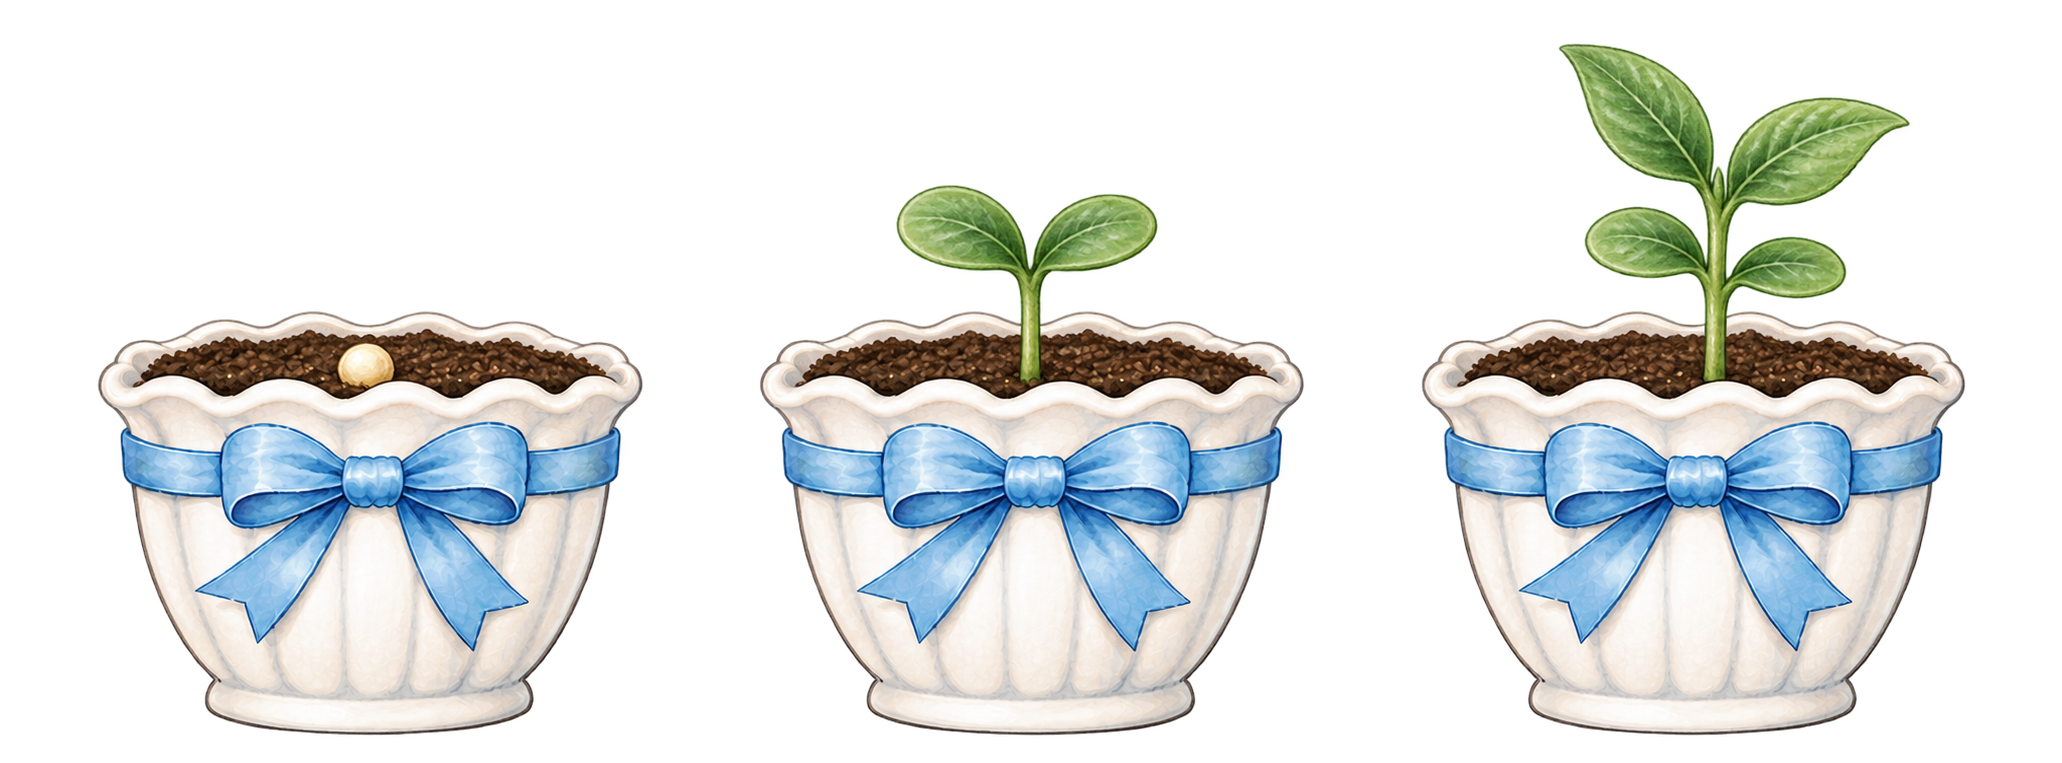
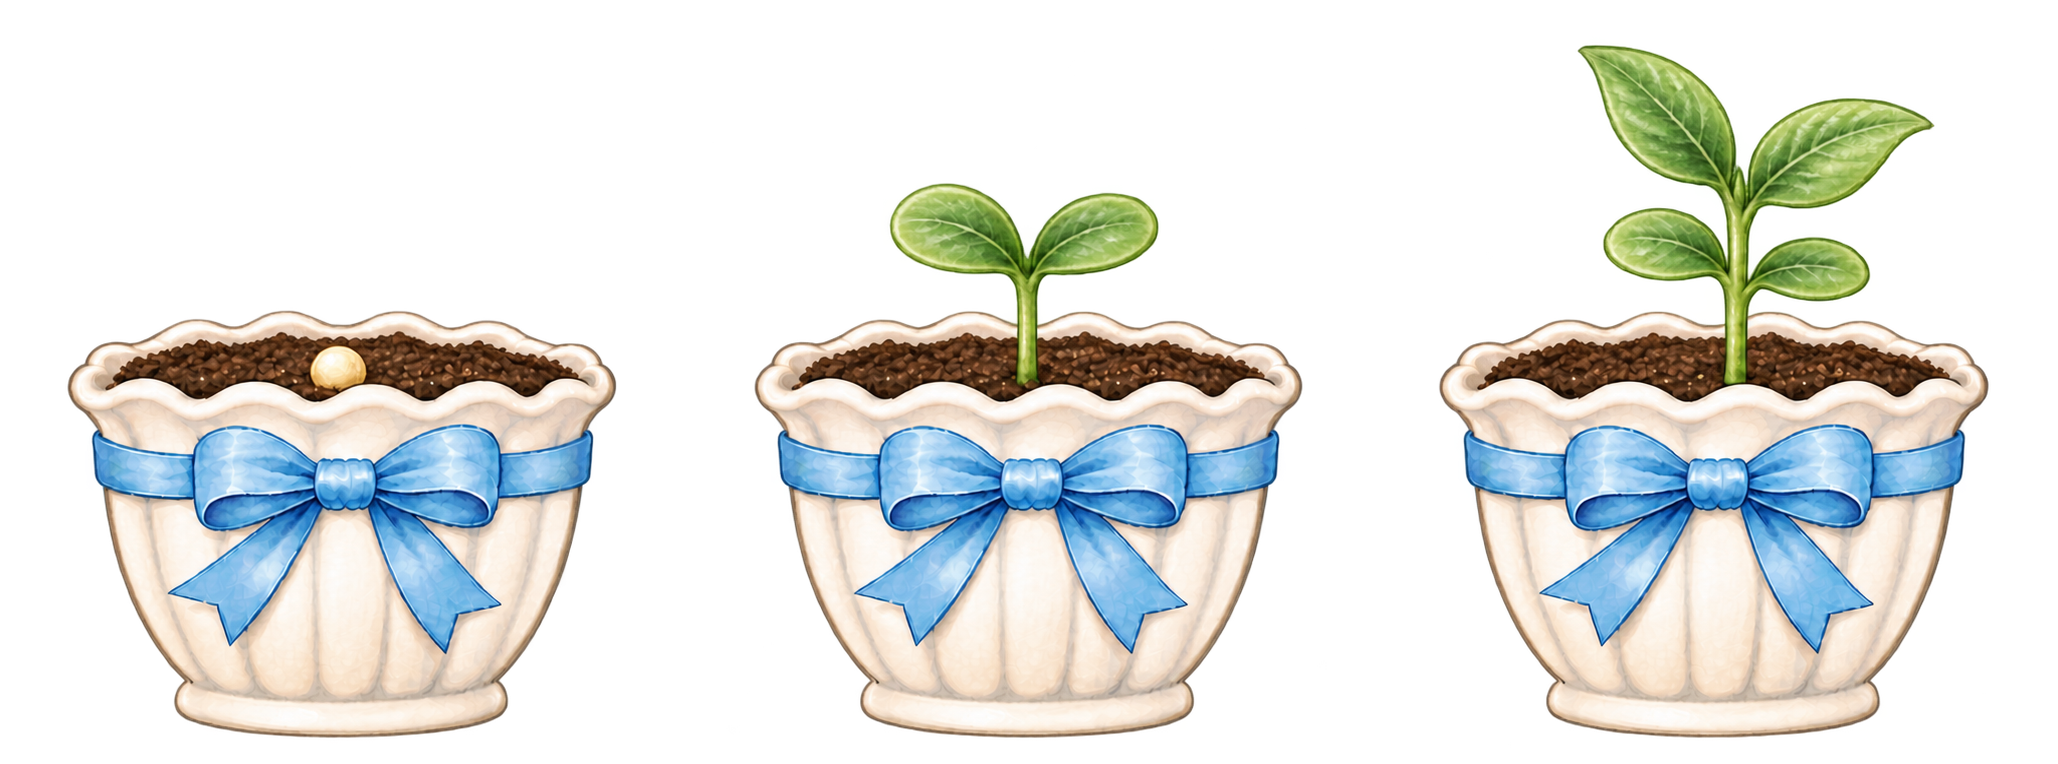
Match common growth stage pot outlines and centered sprite alignment

diff --git a/index.html b/index.html
@@ -1,6 +1,6 @@
 <!doctype html><html lang="ja"><head><meta charset="utf-8"><meta name="viewport" content="width=device-width,initial-scale=1,viewport-fit=cover"><title>ちいさな花のお庭</title><style>
 *{box-sizing:border-box}body{margin:0;font-family:-apple-system,BlinkMacSystemFont,"Hiragino Sans",sans-serif;background:linear-gradient(#dff5ff,#fff6fb);color:#535b70;min-height:100vh;padding:16px}.game{max-width:460px;margin:auto;background:#ffffffdc;border-radius:28px;padding:20px;box-shadow:0 12px 38px #7892aa25;text-align:center}h1{font-size:23px;margin:2px}.sub,.status{font-size:12px;color:#8990a0}.stage{font-size:12px;background:#f4f1fb;display:inline-block;padding:6px 12px;border-radius:16px;margin:8px}.garden{height:300px;border-radius:24px;background:linear-gradient(#cfedff 0 72%,#dbc8a8 72%);position:relative;display:grid;place-items:center;overflow:hidden}.plant{width:100%;height:245px;transform:translateY(25px);cursor:pointer;user-select:none;display:flex;align-items:flex-end;justify-content:center}.plant img{display:block;width:auto;height:auto;max-width:88%;max-height:225px;object-fit:contain;object-position:center bottom}.plant img.flower-stage{max-width:68%;max-height:205px}.plant img.marguerite-art,.plant img.gerbera-art,.plant img.sunflower-art,.plant img.rose-art,.plant img.cosmos-art,.plant img.babys-art,.plant img.violet-art,.plant img.lily-art,.plant img.tulip-art,.plant img.hydrangea-art{width:min(273px,80vw);height:auto;max-width:none;max-height:none;aspect-ratio:1}.plant.pop{animation:pop .35s}@keyframes pop{50%{transform:translateY(25px) scale(1.06)}}.bubble{background:#fff;border-radius:18px;padding:10px 13px;margin:2px 0 12px;max-width:100%;font-size:13px;line-height:1.6;font-weight:650;overflow-wrap:anywhere;box-shadow:0 5px 15px #60708018}.sky{position:absolute;top:17px;font-size:30px}.sun{right:20px}.cloud{left:20px}.meters{text-align:left;margin:14px 2px}.meter{display:grid;grid-template-columns:82px 1fr;align-items:center;gap:8px;margin:9px 0;font-size:13px;font-weight:650}.track{height:11px;background:#edf0f4;border-radius:10px;overflow:hidden}.fill{height:100%;border-radius:10px;background:linear-gradient(90deg,#b7ddf4,#d6c8f2);transition:width .4s}.actions{display:grid;grid-template-columns:repeat(2,1fr);gap:9px}button{border:0;border-radius:16px;padding:13px 7px;font-size:14px;font-weight:700;color:#596176;background:#e9f6ff}.result{background:#fff7fb;border-radius:18px;padding:13px;margin-top:12px;line-height:1.7}.hidden{display:none}.reset,.test{background:transparent;color:#a0a4af;font-size:11px;margin-top:7px}.sleep{opacity:.7}.questionNotice{margin-top:11px;width:100%;background:#fff3fb;color:#6c6075;border:2px solid #f3d8ec;box-shadow:0 5px 16px #8c6f8c18}.modal{position:fixed;inset:0;background:#52607855;display:grid;place-items:center;padding:22px;z-index:20}.modal.hidden{display:none}.qcard{width:min(420px,100%);background:#fff;border-radius:24px;padding:22px;box-shadow:0 16px 45px #4d587744;text-align:left}.qhead{font-size:12px;color:#9a8da3;margin-bottom:8px}.qtext{font-size:18px;font-weight:750;line-height:1.55;margin:5px 0 16px}.choices{display:grid;gap:9px}.choices button{background:#eef8ff;text-align:left;padding:13px 14px}.later{width:100%;background:transparent;color:#9a9eaa;font-size:12px;margin-top:9px}
-.common-plant{width:min(205px,60vw);aspect-ratio:2062/2289;flex:none;background-image:url("stage_common.png");background-size:300% 100%;background-repeat:no-repeat;background-position:left top}.common-plant.nemophila-stage{width:min(273px,80vw);aspect-ratio:1;background-image:url("nemophila_stages.png");background-size:200% 100%}.common-plant.lavender-stage{width:min(300px,80vw);aspect-ratio:1;background-image:url("lavender_stages.png");background-size:200% 100%}.common-plant.hidden,.plant img.hidden{display:none}
+.common-plant{width:min(198px,60vw);aspect-ratio:686/764;flex:none;background-image:url("stage_common.png");background-size:300% 100%;background-repeat:no-repeat;background-position:left top}.common-plant.nemophila-stage{width:min(273px,80vw);aspect-ratio:1;background-image:url("nemophila_stages.png");background-size:200% 100%}.common-plant.lavender-stage{width:min(300px,80vw);aspect-ratio:1;background-image:url("lavender_stages.png");background-size:200% 100%}.common-plant.hidden,.plant img.hidden{display:none}
 </style></head><body><main class="game"><h1>🌱 ちいさな花のお庭</h1><p class="sub">お世話のしかたで、咲く花が変わるよ</p><div id="stage" class="stage"></div><div id="bubble" class="bubble">どんな花になるのかな…？</div><section class="garden"><span class="sky cloud">☁</span><span class="sky sun">☀</span><div id="plant" class="plant"><div id="commonPlant" class="common-plant hidden" role="img" aria-label="育てている植物"></div><img id="plantImg" alt="育てている植物"></div></section><div class="meters"><div class="meter">🌱 成長<div class="track"><div id="growth" class="fill"></div></div></div><div class="meter">💧 うるおい<div class="track"><div id="moisture" class="fill"></div></div></div><div class="meter">☀ ひかり<div class="track"><div id="light" class="fill"></div></div></div><div class="meter">🌿 げんき<div class="track"><div id="health" class="fill"></div></div></div><div class="meter">🩷 なかよし<div class="track"><div id="friend" class="fill"></div></div></div></div><div id="actions" class="actions"><button data-a="water">💧 お水</button><button data-a="sun">☀ ひなた</button><button data-a="care">🌿 お手入れ</button><button data-a="talk">🩷 おはなし</button></div><button id="questionNotice" class="questionNotice hidden">💌 お花から質問があるみたい</button><div id="result" class="result hidden"></div><div id="status" class="status">一緒に過ごしているよ 🌱</div><button id="test" class="test">テスト：次の成長段階へ</button><button id="reset" class="reset">育成データをリセット</button></main><div id="qmodal" class="modal hidden"><div class="qcard"><div id="qhead" class="qhead"></div><div id="qtext" class="qtext"></div><div id="choices" class="choices"></div><button id="later" class="later">あとで答える</button></div></div><script>
 const KEY='littleFlowerGardenV5',MAX=72*3600,IDLE=300000,$=x=>document.getElementById(x),clamp=n=>Math.max(0,Math.min(100,n));
 const flowers={
